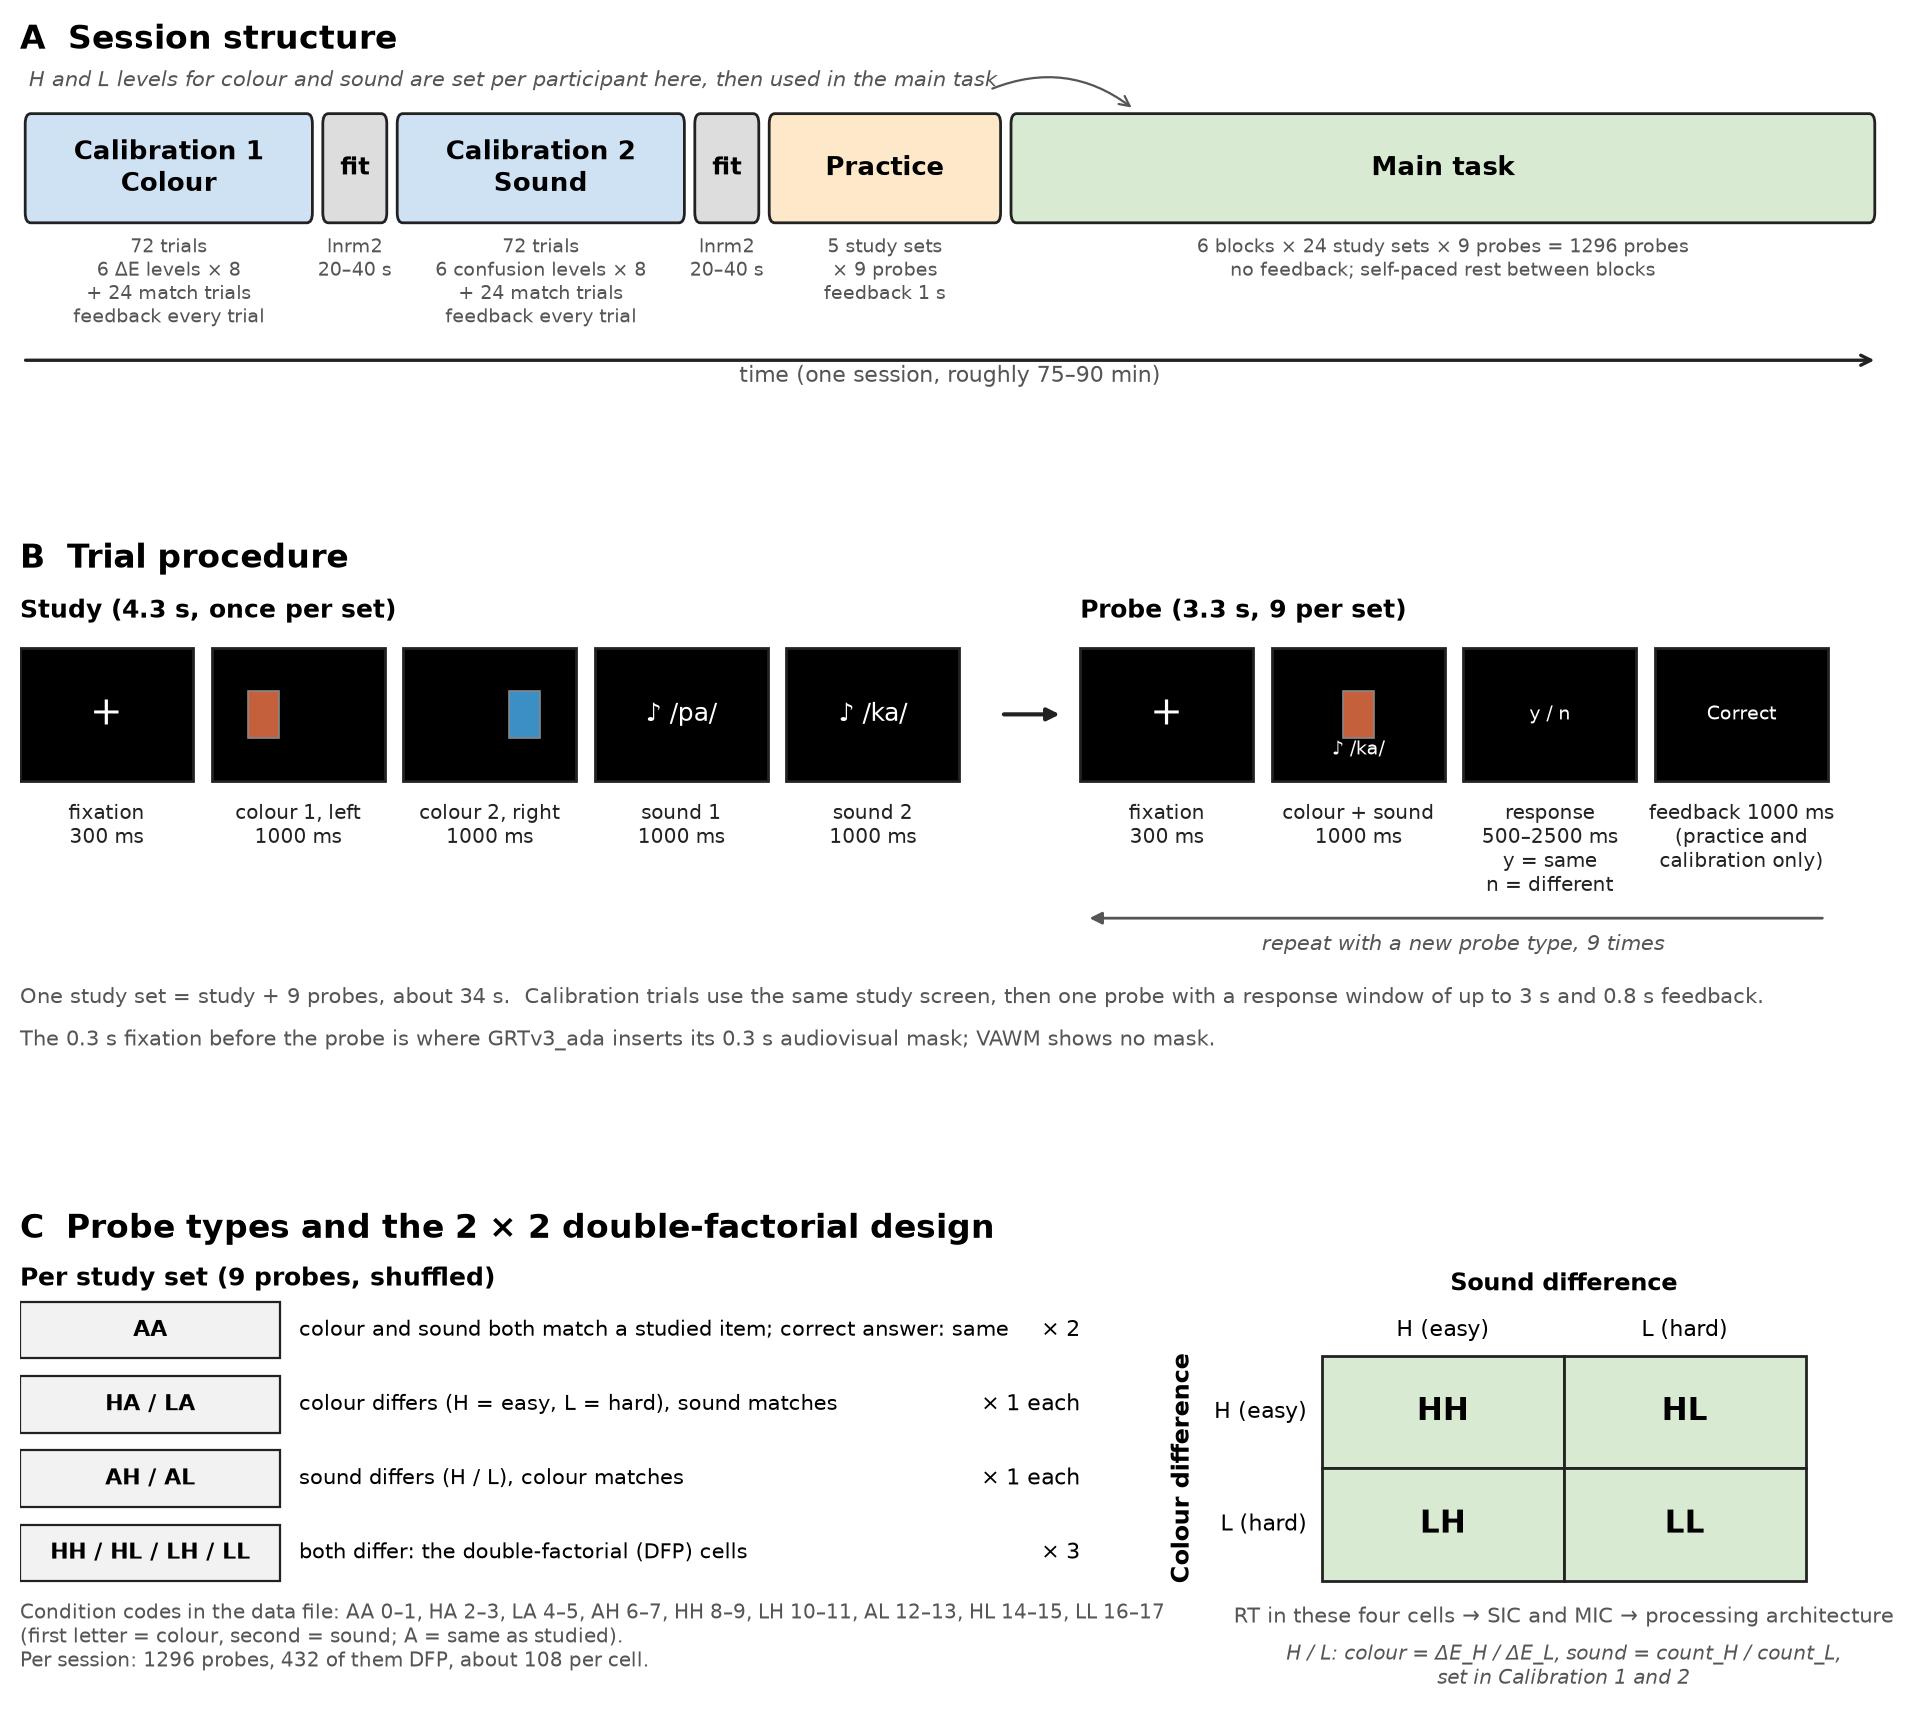
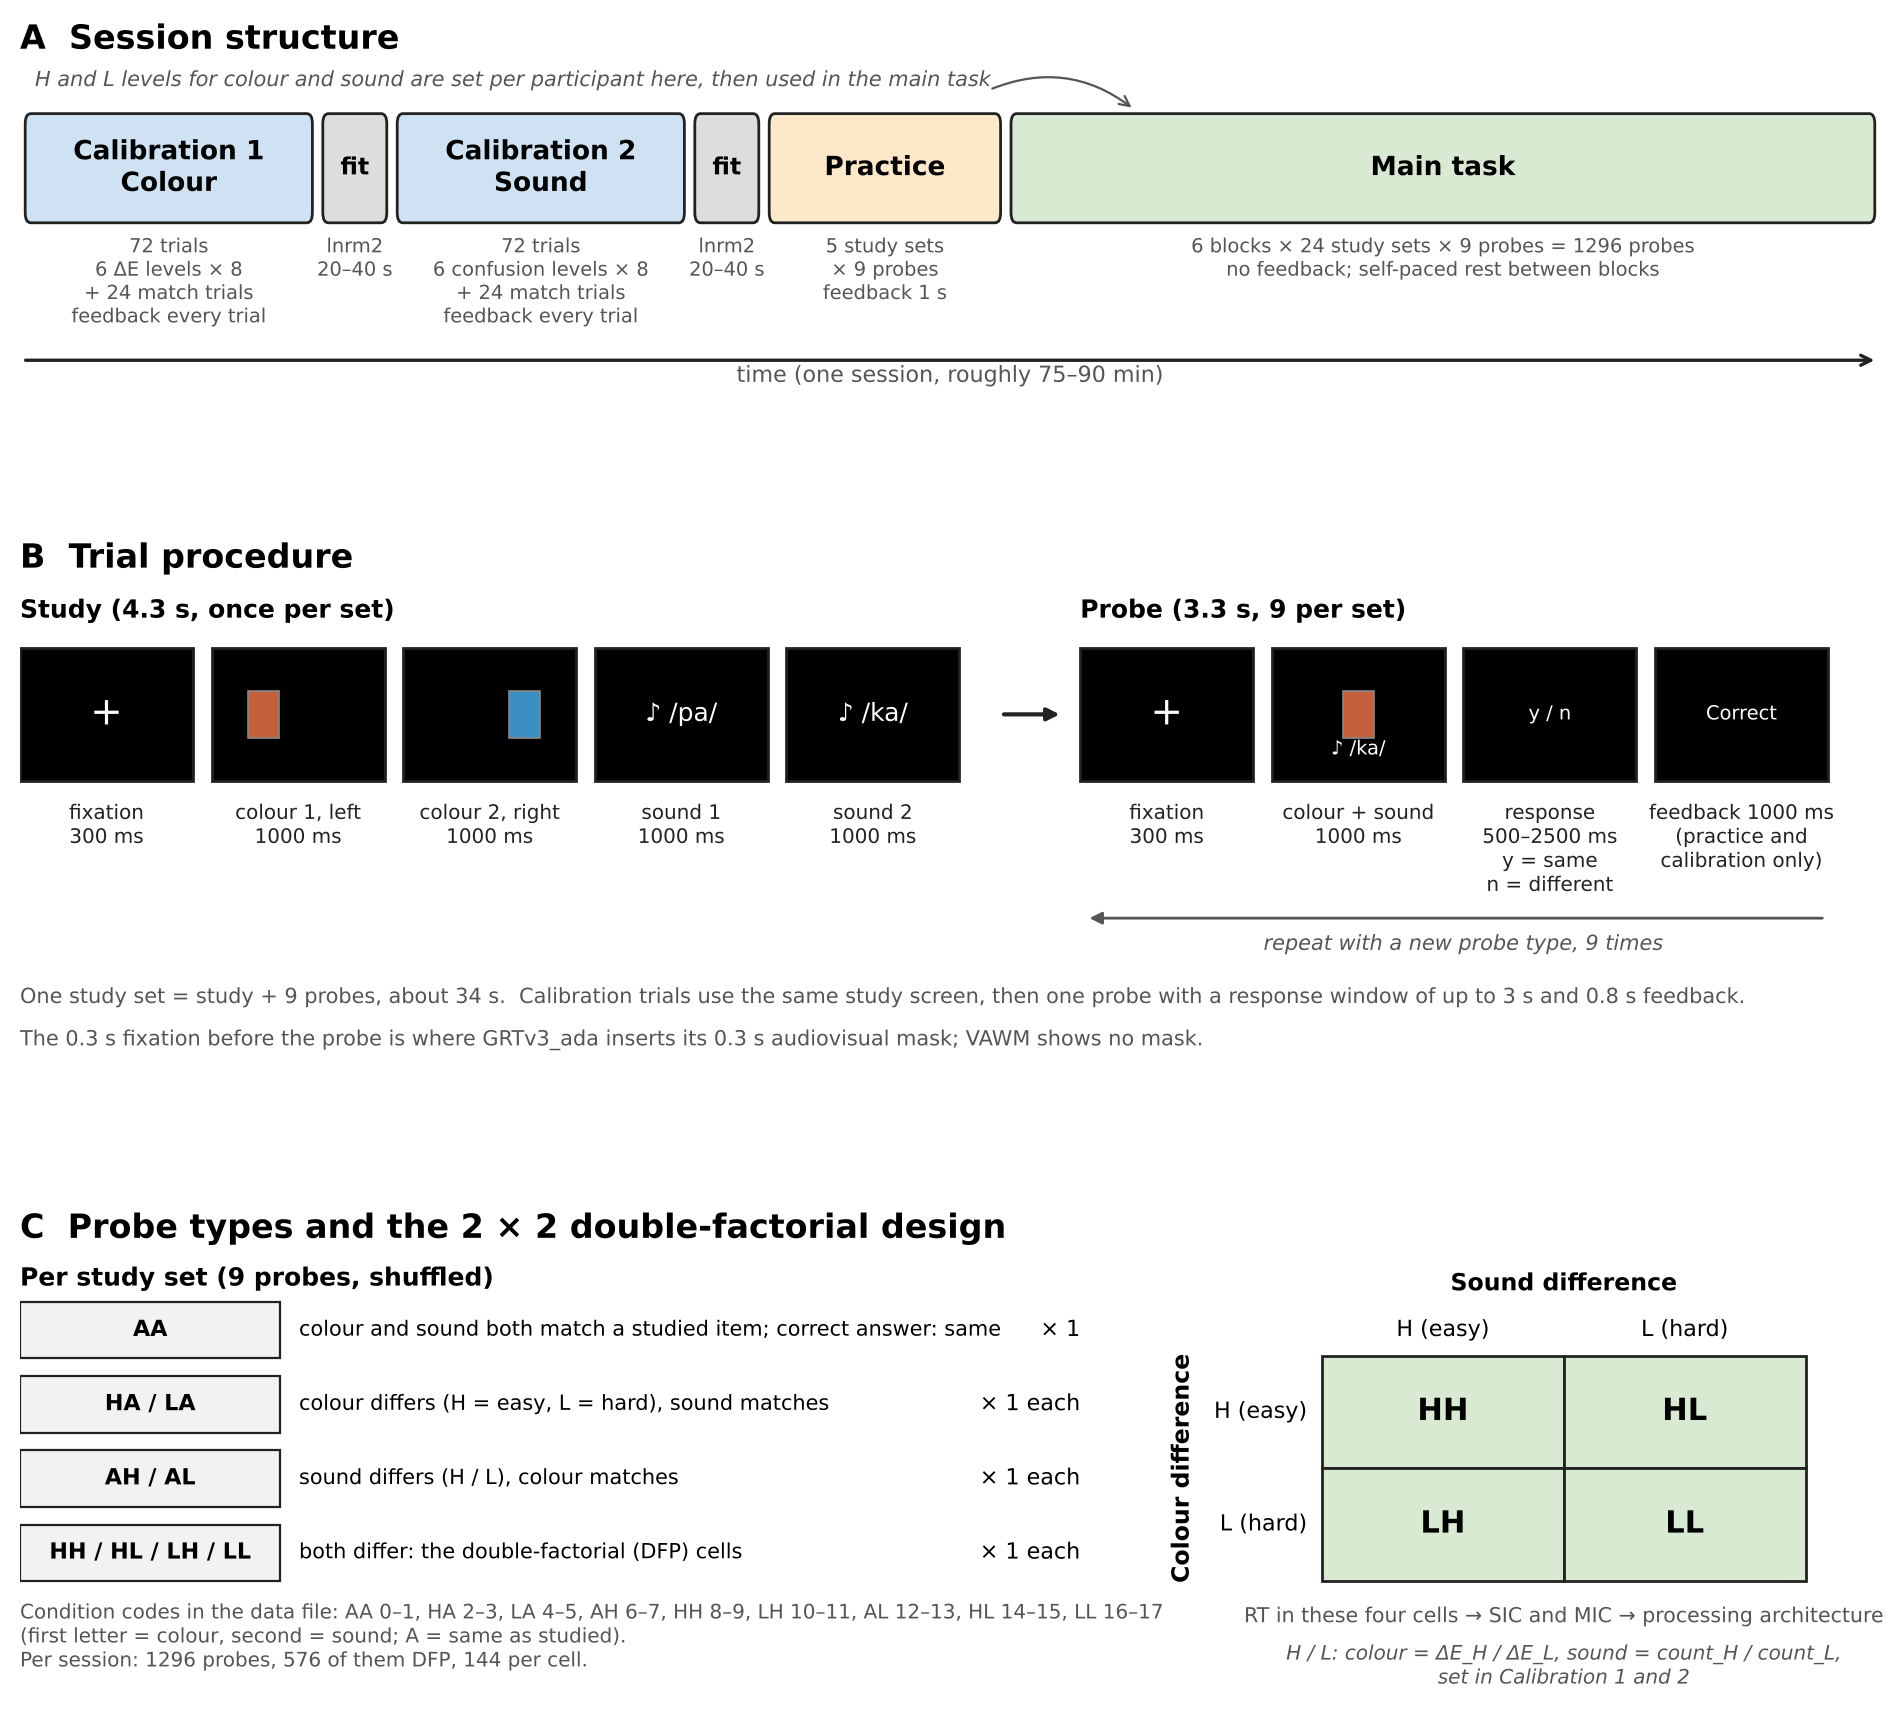
Main task: one probe of each of the nine types per set (3 x 3 equal rates)
nine_probes() in SFT_WM_change/nochange (and _EN), make_simple_psyexp.py
(psyexp regenerated) and generate_stratified_conditions() in VAWM_nobox.py
now draw AA, HA, LA, AH, AL, HH, LH, HL, LL once each per study set, as in
the double-factorial table of Houpt et al. (2014) with "same" not split by
salience. The old mix (2 AA + 3 random two-channel probes) gave each DFP
cell 3/4 of a probe per set; now each cell gets 144 probes per session.
Figure 1 panel C, its note and DECISIONS 15 updated.

Claude-Session: https://claude.ai/code/session_01VrjDxjEWHfBpmZuS3zMGeq

diff --git a/VAWM_nobox.py b/VAWM_nobox.py
@@ -99,30 +99,14 @@ def get_probe_types(targetCol, targetAud, trial_data):
     return col_type, aud_type
 
 def generate_stratified_conditions():
-    """Generate 9 stratified probe conditions with guaranteed proportions.
+    """一組的 9 個探測：九種類型各 1 個（AA、HA、LA、AH、AL、HH、LH、HL、LL），各自隨機探測目標 1 或 2，打散。
 
-    Distribution:
-    - AA (conditions 0,1): 2 trials (22%)
-    - HA (conditions 2,3): 1 trial (11%)
-    - LA (conditions 4,5): 1 trial (11%)
-    - AH (conditions 6,7): 1 trial (11%)
-    - AL (conditions 12,13): 1 trial (11%)
-    - HH/LH/HL/LL (conditions 8-11, 14-17): 3 trials (33%)
+    照 Houpt, Blaha, McIntire, Havig & Townsend (2014) 的雙因子表：兩個來源各 {A, H, L} 完整交叉、每格等率 1/9。
+    舊版是 2 AA + 3 個雙通道隨機（AA 22%、雙因子每格只有 3/4 個探測 / 組）；改成每格 1 個後，
+    每場次 HH / HL / LH / LL 各 144 個。
     """
-    conditions = []
-    # AA: 2 trials (25% target)
-    conditions.extend([np.random.choice([0, 1]) for _ in range(2)])
-    # HA: 1 trial
-    conditions.append(np.random.choice([2, 3]))
-    # LA: 1 trial
-    conditions.append(np.random.choice([4, 5]))
-    # AH: 1 trial
-    conditions.append(np.random.choice([6, 7]))
-    # AL: 1 trial
-    conditions.append(np.random.choice([12, 13]))
-    # HH/LH/HL/LL: 3 trials (split among 8 conditions)
-    conditions.extend([np.random.choice([8, 9, 10, 11, 14, 15, 16, 17]) for _ in range(3)])
-    # Shuffle to randomize order
+    pairs = ([0, 1], [2, 3], [4, 5], [6, 7], [12, 13], [8, 9], [10, 11], [14, 15], [16, 17])
+    conditions = [int(np.random.choice(p)) for p in pairs]
     np.random.shuffle(conditions)
     return conditions
 

diff --git a/figures/make_procedure_figure.py b/figures/make_procedure_figure.py
@@ -91,10 +91,10 @@ ax.text(0, 0.4, "The 0.3 s fixation before the probe is where GRTv3_ada inserts 
 ax = fig.add_subplot(gs[2]); ax.set_xlim(0, 100); ax.set_ylim(0, 10); ax.axis("off")
 ax.text(0, 9.8, "C  Probe types and the 2 × 2 double-factorial design", fontsize=12, fontweight="bold", va="top")
 ax.text(0, 8.5, "Per study set (9 probes, shuffled)", fontsize=9, fontweight="bold", va="center")
-rows = [("AA", "colour and sound both match a studied item; correct answer: same", "× 2"),
+rows = [("AA", "colour and sound both match a studied item; correct answer: same", "× 1"),
         ("HA / LA", "colour differs (H = easy, L = hard), sound matches", "× 1 each"),
         ("AH / AL", "sound differs (H / L), colour matches", "× 1 each"),
-        ("HH / HL / LH / LL", "both differ: the double-factorial (DFP) cells", "× 3")]
+        ("HH / HL / LH / LL", "both differ: the double-factorial (DFP) cells", "× 1 each")]
 y = 7.5
 for code, desc, n in rows:
     ax.add_patch(Rectangle((0, y - 0.55), 14, 1.1, fc=LIGHT, ec=DARK, lw=0.8))
@@ -104,7 +104,7 @@ for code, desc, n in rows:
     y -= 1.45
 ax.text(0, 1.5, "Condition codes in the data file: AA 0–1, HA 2–3, LA 4–5, AH 6–7, HH 8–9, LH 10–11, AL 12–13, HL 14–15, LL 16–17\n"
                 "(first letter = colour, second = sound; A = same as studied).\n"
-                "Per session: 1296 probes, 432 of them DFP, about 108 per cell.",
+                "Per session: 1296 probes, 576 of them DFP, 144 per cell.",
         fontsize=7.2, color=GREY, va="center")
 gx, gy, cw, ch = 70, 2.6, 13, 2.2
 ax.text(gx + cw, gy + 2 * ch + 1.4, "Sound difference", ha="center", va="center", fontsize=8.5, fontweight="bold")

diff --git a/SFT_WM_nochange_EN.py b/SFT_WM_nochange_EN.py
@@ -44,7 +44,7 @@ FIT_KW = dict(tune=1000, draws=1000, chains=4, nuts_sampler="nutpie")
 RT_MIN, RT_MAX = 0.15, 3.0
 N_BLOCKS = 6
 SETS_PER_BLOCK = 24
-PROBES_PER_SET = 9
+PROBES_PER_SET = 9           # one probe of each of the nine types per set (Houpt et al. 2014 equal-rate 3 x 3 table)
 N_PRACTICE_SETS = 2
 RESP_WINDOW = 3.0
 OTHER_TARGETS_CHANGE = False
@@ -392,10 +392,11 @@ COND = {
 
 
 def nine_probes():
-    """The 9 probes of one set: 2 AA, 1 HA, 1 LA, 1 AH, 1 AL, 3 two-channel (HH/LH/HL/LL at random), shuffled."""
-    c = [int(rng.choice([0, 1])) for _ in range(2)]
-    c += [int(rng.choice([2, 3])), int(rng.choice([4, 5])), int(rng.choice([6, 7])), int(rng.choice([12, 13]))]
-    c += [int(rng.choice([8, 9, 10, 11, 14, 15, 16, 17])) for _ in range(3)]
+    """The 9 probes of one set: one of each type (AA, HA, LA, AH, AL, HH, LH, HL, LL), each probing target 1 or 2 at random, shuffled.
+    Follows the double-factorial table of Houpt, Blaha, McIntire, Havig & Townsend (2014): both sources take {A, H, L}, fully crossed, equal rates (1/9).
+    The old mix (2 AA + 3 random two-channel probes) gave each DFP cell only 3/4 of a probe per set; with one per cell a session has 144 HH / HL / LH / LL each."""
+    pairs = ([0, 1], [2, 3], [4, 5], [6, 7], [12, 13], [8, 9], [10, 11], [14, 15], [16, 17])
+    c = [int(rng.choice(p)) for p in pairs]
     rng.shuffle(c)
     return c
 

diff --git a/SFT_WM_change_EN.py b/SFT_WM_change_EN.py
@@ -44,7 +44,7 @@ FIT_KW = dict(tune=1000, draws=1000, chains=4, nuts_sampler="nutpie")
 RT_MIN, RT_MAX = 0.15, 3.0
 N_BLOCKS = 6
 SETS_PER_BLOCK = 24
-PROBES_PER_SET = 9
+PROBES_PER_SET = 9           # one probe of each of the nine types per set (Houpt et al. 2014 equal-rate 3 x 3 table)
 N_PRACTICE_SETS = 2
 RESP_WINDOW = 3.0
 OTHER_TARGETS_CHANGE = True
@@ -392,10 +392,11 @@ COND = {
 
 
 def nine_probes():
-    """The 9 probes of one set: 2 AA, 1 HA, 1 LA, 1 AH, 1 AL, 3 two-channel (HH/LH/HL/LL at random), shuffled."""
-    c = [int(rng.choice([0, 1])) for _ in range(2)]
-    c += [int(rng.choice([2, 3])), int(rng.choice([4, 5])), int(rng.choice([6, 7])), int(rng.choice([12, 13]))]
-    c += [int(rng.choice([8, 9, 10, 11, 14, 15, 16, 17])) for _ in range(3)]
+    """The 9 probes of one set: one of each type (AA, HA, LA, AH, AL, HH, LH, HL, LL), each probing target 1 or 2 at random, shuffled.
+    Follows the double-factorial table of Houpt, Blaha, McIntire, Havig & Townsend (2014): both sources take {A, H, L}, fully crossed, equal rates (1/9).
+    The old mix (2 AA + 3 random two-channel probes) gave each DFP cell only 3/4 of a probe per set; with one per cell a session has 144 HH / HL / LH / LL each."""
+    pairs = ([0, 1], [2, 3], [4, 5], [6, 7], [12, 13], [8, 9], [10, 11], [14, 15], [16, 17])
+    c = [int(rng.choice(p)) for p in pairs]
     rng.shuffle(c)
     return c
 

diff --git a/make_simple_psyexp.py b/make_simple_psyexp.py
@@ -105,10 +105,9 @@ COND = {0: ("AA", "color1_target", "audio1_target_file"), 1: ("AA", "color2_targ
         14: ("HL", "color1_H", "audio1_L_file"),          15: ("HL", "color2_H", "audio2_L_file"),
         16: ("LL", "color1_L", "audio1_L_file"),          17: ("LL", "color2_L", "audio2_L_file")}
 
-def nine_probes():               # 2 AA、1 HA、1 LA、1 AH、1 AL、3 個雙通道，打散
-    c = [int(rng.choice([0, 1])) for _ in range(2)]
-    c += [int(rng.choice([2, 3])), int(rng.choice([4, 5])), int(rng.choice([6, 7])), int(rng.choice([12, 13]))]
-    c += [int(rng.choice([8, 9, 10, 11, 14, 15, 16, 17])) for _ in range(3)]
+def nine_probes():               # 九種類型各 1（Houpt et al. 2014 的 3 × 3 等率表），各自隨機探測目標 1 或 2，打散
+    pairs = ([0, 1], [2, 3], [4, 5], [6, 7], [12, 13], [8, 9], [10, 11], [14, 15], [16, 17])
+    c = [int(rng.choice(p)) for p in pairs]
     rng.shuffle(c); return c
 
 def fit_dim(dim):                # 72 試 -> lnrm2 -> H / L（原始 adaptiveSFT）

diff --git a/figures/experiment_procedure.md b/figures/experiment_procedure.md
@@ -15,10 +15,11 @@
 自行決定休息長度）。**(B)** 單一試次。Study 階段（4.3 s）：注視點 300 ms，左側顏色 1000 ms，右側顏色 1000 ms，
 子音 1 1000 ms，子音 2 1000 ms。每組 study 之後連續出現 9 個探測（各 3.3 s）：注視點 300 ms，顏色方塊與子音同時
 出現 1000 ms，作答窗從探測出現後 500 ms 開始、持續 2000 ms（y = 與記住的相同，n = 不同）。練習與校準試次另有回饋
-畫面（1000 ms；校準為 800 ms）。校準試次的作答窗最長 3 s。**(C)** 每組 9 個探測的組成（隨機排列）：AA（顏色與聲音
-都與某個 study 項目相同）2 個；HA / LA（只有顏色不同，H = 容易、L = 困難）各 1 個；AH / AL（只有聲音不同）各 1 個；
-HH / HL / LH / LL（兩者都不同）共 3 個。最後四類構成 2 × 2 雙因子設計（double-factorial paradigm），其反應時間用
-於計算 SIC 與 MIC，以推論顏色與聲音的處理架構。每場次共 432 個雙因子探測，每格約 108 個。
+畫面（1000 ms；校準為 800 ms）。校準試次的作答窗最長 3 s。**(C)** 每組 9 個探測的組成（隨機排列）：九種類型各 1 個 —— AA（顏色與聲音
+都與某個 study 項目相同）；HA / LA（只有顏色不同，H = 容易、L = 困難）；AH / AL（只有聲音不同）；
+HH / HL / LH / LL（兩者都不同）。兩個維度各取 {相同, H, L} 完整交叉、每格等率 1/9（Houpt et al., 2014）。最後四類構成
+2 × 2 雙因子設計（double-factorial paradigm），其反應時間用於計算 SIC 與 MIC，以推論顏色與聲音的處理架構。
+每場次共 576 個雙因子探測，每格 144 個。
 
 ## Caption (English)
 
@@ -33,20 +34,19 @@ consonant 1 1000 ms, consonant 2 1000 ms. Each study set is followed by nine pro
 a colour patch and a consonant presented together for 1000 ms, and a response window opening 500 ms after probe
 onset and lasting 2000 ms (y = same as studied, n = different). Practice and calibration trials add a feedback
 screen (1000 ms; 800 ms in calibration), and calibration trials allow up to 3 s to respond. **(C)** Composition of
-the nine probes per study set (shuffled): AA (colour and sound both match a studied item) × 2; HA / LA (only
-colour differs; H = easy, L = hard) × 1 each; AH / AL (only sound differs) × 1 each; HH / HL / LH / LL (both
-differ) × 3. The last four types form the 2 × 2 double-factorial paradigm whose response times yield the SIC and
-MIC used to infer the processing architecture of colour and sound; 432 double-factorial probes per session, about
-108 per cell.
+the nine probes per study set (shuffled): one of each type: AA (colour and sound both match a studied item); HA / LA
+(only colour differs; H = easy, L = hard); AH / AL (only sound differs); HH / HL / LH / LL (both differ). The two
+dimensions each take {same, H, L}, fully crossed at equal rates of 1/9 (Houpt et al., 2014). The last four types form
+the 2 × 2 double-factorial paradigm whose response times yield the SIC and MIC used to infer the processing
+architecture of colour and sound; 576 double-factorial probes per session, 144 per cell.
 
 ## 要注意的一件事 / One caveat
 
-每格約 108 個探測，低於 `adaptiveSFT/results/power_scan.csv` 建議的 250。要提高 SIC 的檢定力，可把
-`generate_stratified_conditions()`（`VAWM_nobox.py:137`）裡雙因子探測的數量從 3 提高，或增加 block 數。
+每格 144 個探測，仍低於 `adaptiveSFT/results/power_scan.csv` 建議的 250。要提高 SIC 的檢定力，增加 block 數或每
+block 的組數（`N_BLOCKS` / `SETS_PER_BLOCK`），或跑兩個場次。
 
-About 108 probes per DFP cell is below the 250 per cell recommended by `adaptiveSFT/results/power_scan.csv`.
-Raise the number of double-factorial probes per set in `generate_stratified_conditions()` (`VAWM_nobox.py:137`)
-or add blocks to increase SIC power.
+144 probes per DFP cell is still below the 250 per cell recommended by `adaptiveSFT/results/power_scan.csv`.
+Add blocks or sets per block (`N_BLOCKS` / `SETS_PER_BLOCK`), or run two sessions, to increase SIC power.
 
 ## APA 7 格式的圖說（給 `experiment_procedure_en`）
 

diff --git a/DECISIONS.md b/DECISIONS.md
@@ -115,6 +115,11 @@
 - **為什麼**：v1 的 lognormal 密度與存活函數是手寫的；v2 用 `pm.logp(pm.LogNormal.dist(...))` 和 `pm.logcdf(...)` 拼出賽跑似然，再包進 `pm.CustomDist`，比較好對照教科書、也比較好讓後人（和老闆）檢查。兩版 logp 差 < 1e−7，後驗與 Stan 一致（`scripts/proof_pymc_lognormal.py`）；回傳格式相同，`find_salience` 不用改。PyMC 本身沒有「lognormal race」分布，所以 race 仍然要自己組。
 - **在哪**：`adaptive_vawm.py` 的 `finish`；`SFT_WM_change.py` / `SFT_WM_nochange.py` / `make_simple_psyexp.py` 的 `fit_calibration`；模型在 `adaptiveSFT/adaptivesft/models_v2.py:36-37`。
 
+## 15. 主實驗每組 9 個探測 = 九種類型各 1（3 × 3 等率）
+- **決定**：`nine_probes()` 每組抽 AA、HA、LA、AH、AL、HH、LH、HL、LL 各 1 個（各自隨機探測目標 1 或 2），不再是 2 AA + 3 個雙通道隨機。
+- **為什麼**：Houpt, Blaha, McIntire, Havig & Townsend (2014) 的雙因子表是兩個來源各 {target, distractor} × {high, low} 完整交叉、每格等率；本實驗「相同」（A）不分 high / low，所以每個維度是 {A, H, L}，3 × 3 = 9 格各 1/9。舊配比讓雙因子每格每組只有 3/4 個探測（每場次 108），改後每格 144，而且 HH / HL / LH / LL 四格數量相等。代價：「相同」從 22% 降到 11%，受試者可能偏向一律按「不同」；AA 的錯誤率要看。
+- **在哪**：`SFT_WM_change.py` / `SFT_WM_nochange.py`（含 `_EN`）與 `make_simple_psyexp.py` 的 `nine_probes`；`VAWM_nobox.py` 的 `generate_stratified_conditions`；圖說 `figures/experiment_procedure.md` (C)。
+
 ## 還沒決定的
 - adaptiveSFT 決定 A（DDM 的 `a` 是邊界距離還是分離）：只影響 DDM 模擬與 power scan 的數字，不影響實驗程式。
 - 聲音 lnrm 的層級貼到 foil 後 u 是散的（測試裡 29 個不同值），擬合沒問題，但「層級」這個概念在聲音軸上是近似。
